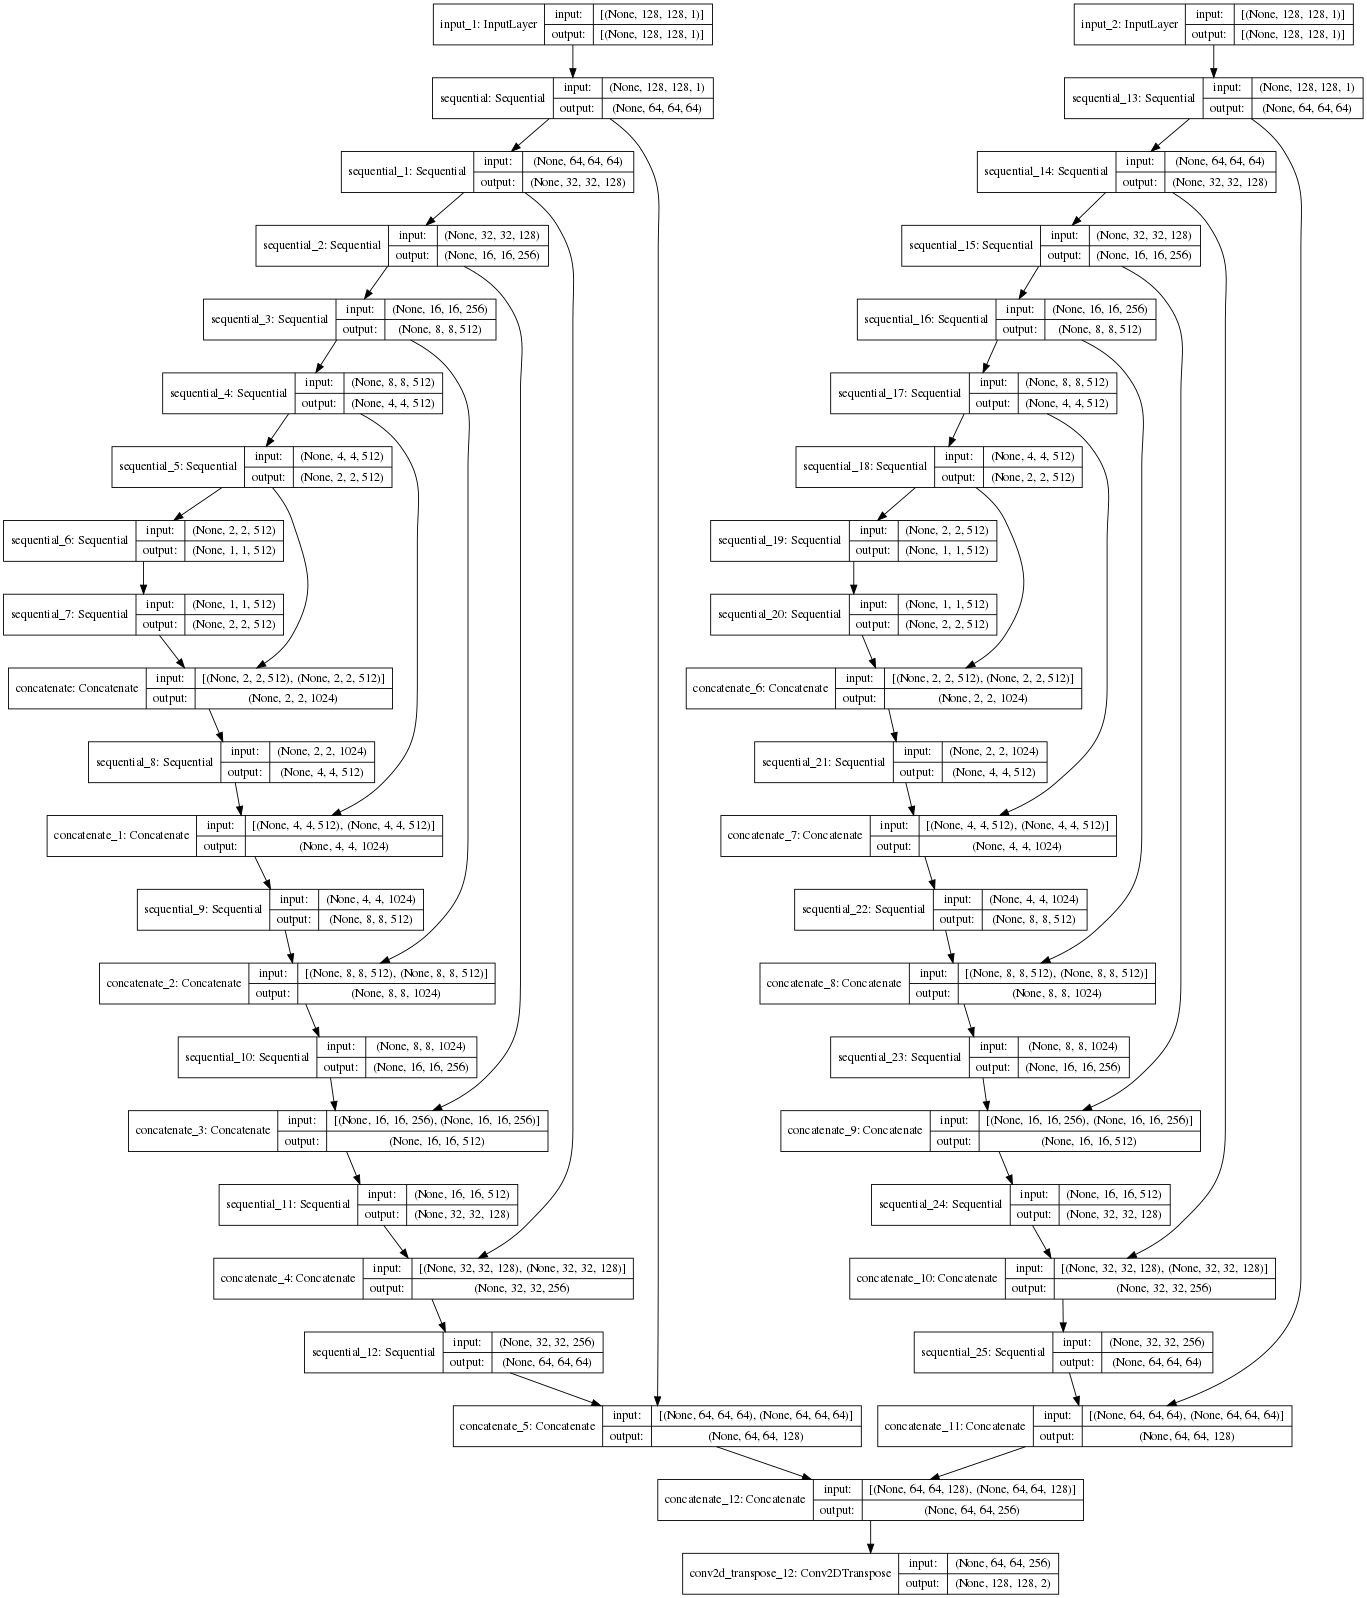
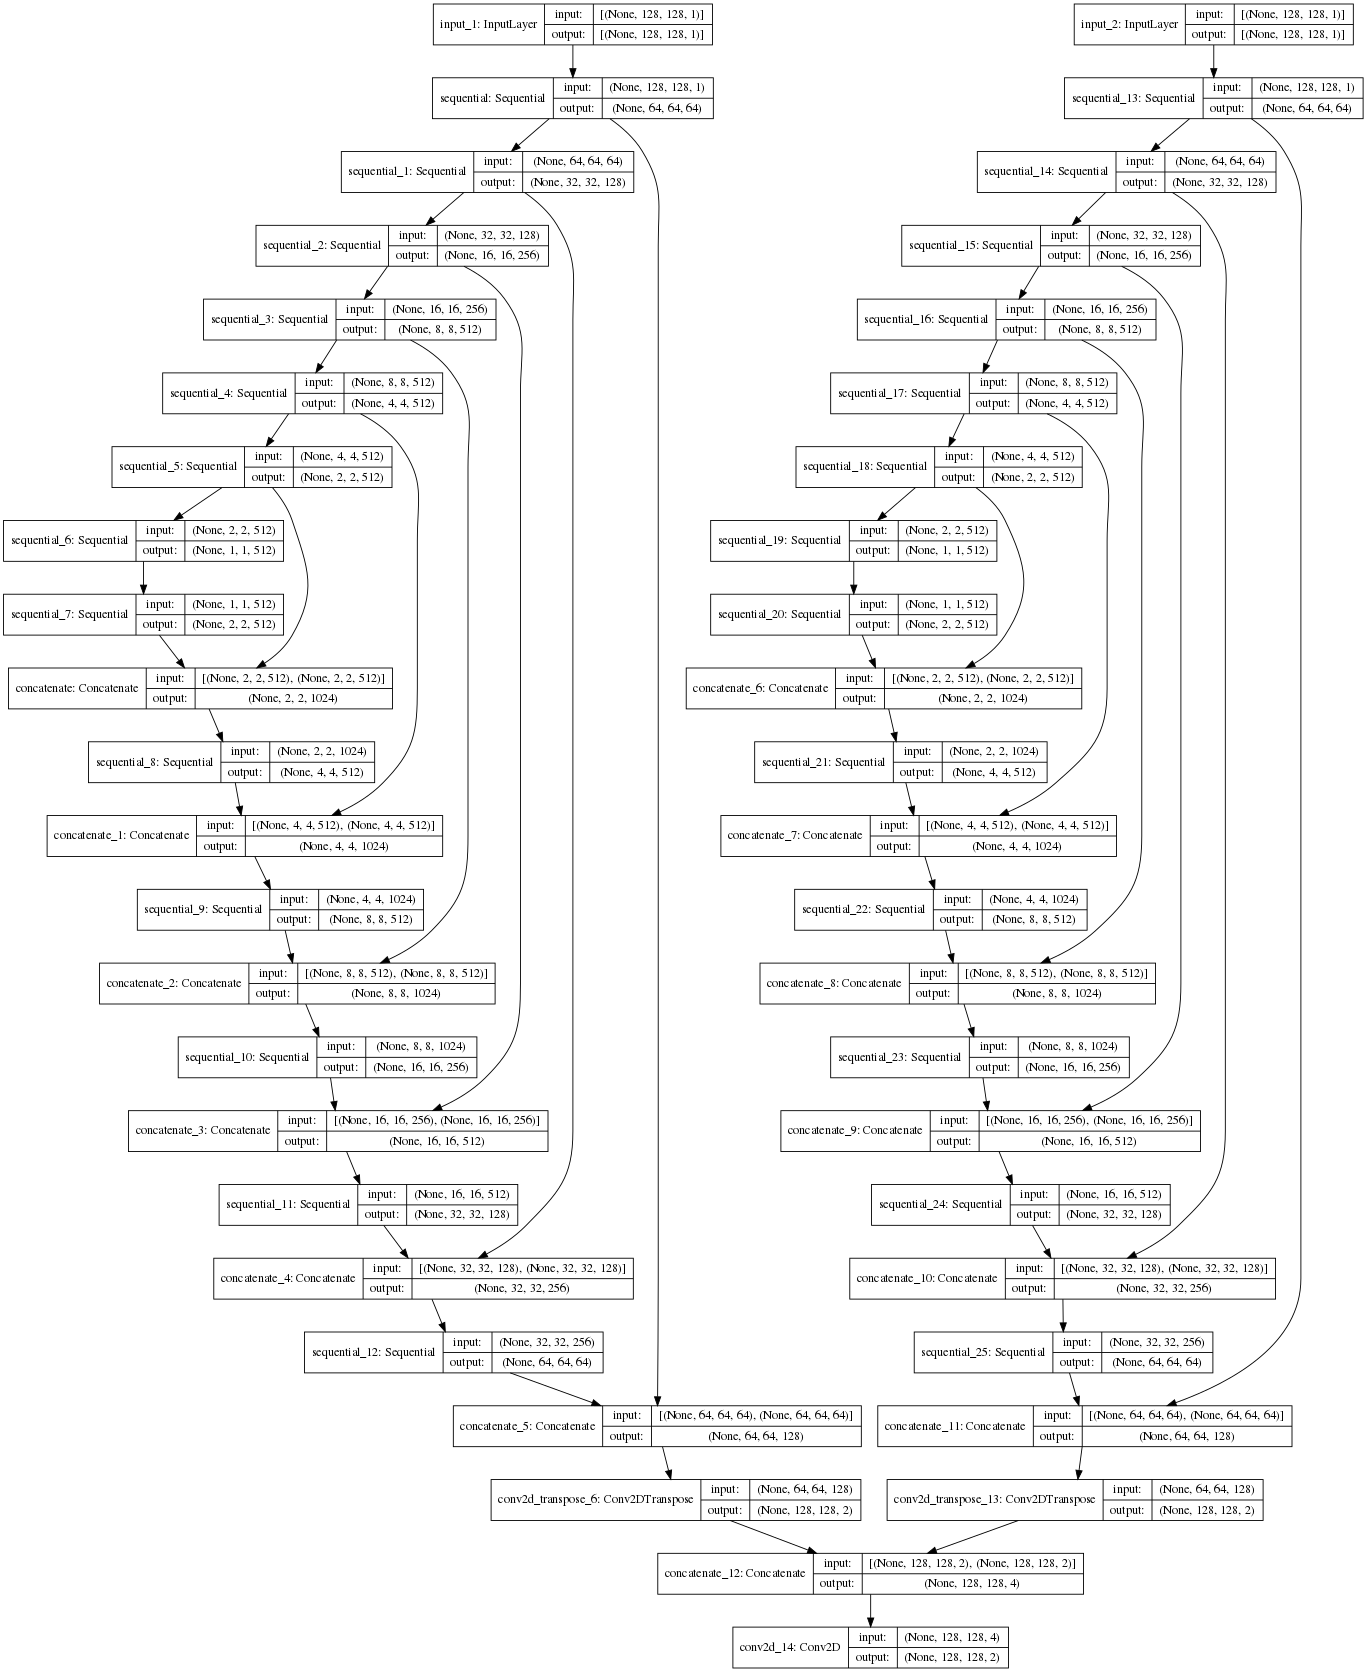
Slight changes to model, conv2d as the last layer and 4x4 kernel size

Changed region(s): [[0.0, 0.0, 1.0, 1.0]]

diff --git a/generator.py b/generator.py
@@ -69,10 +69,19 @@ def create_unet(inp):
         x = up(x)
         x = tf.keras.layers.Concatenate()([x, skip])
 
+    x = tf.keras.layers.Conv2DTranspose(2,
+                                         kernel_size=(4, 4),
+                                         strides=(2, 2),
+                                         padding="same",
+                                         use_bias=False,
+                                         activation="tanh")(x)
+
     return x
 
 
 def create_generator():
+    init = tf.random_normal_initializer(0., 0.02)
+
     inp_1 = tf.keras.layers.Input(shape=[HEIGHT, WIDTH, 1])
     inp_2 = tf.keras.layers.Input(shape=[HEIGHT, WIDTH, 1])
 
@@ -81,13 +90,15 @@ def create_generator():
 
     fuse = tf.keras.layers.Concatenate()([unet_1, unet_2])
 
-    output = tf.keras.layers.Conv2DTranspose(2,
-                                             kernel_size=(4, 4),
-                                             strides=(2, 2),
-                                             padding="same",
-                                             use_bias=False,
-                                             activation="tanh")(fuse)
+    output = tf.keras.layers.Conv2D(2,
+                                     kernel_size=(4, 4),
+                                     strides=(1, 1),
+                                     padding="same",
+                                     kernel_initializer=init,
+                                     use_bias=False,
+                                     activation="tanh")(fuse)
 
+    print(output.shape)
     model = tf.keras.Model(inputs=[inp_1, inp_2], outputs=output)
 
     # Uncomment to visualize the model

diff --git a/model_methods.py b/model_methods.py
@@ -14,11 +14,13 @@ def downsample(filters, kernel_size, strides, batchnorm=True):
         A sequential model which consists of a Convolutional layer, a Batch Normalization layer
         (if enabled), and a Leakyrelu layer.
     """
+    init = tf.random_normal_initializer(0., 0.02)
     layer = tf.keras.Sequential()
     layer.add(tf.keras.layers.Conv2D(filters,
                                      kernel_size=kernel_size,
                                      strides=strides,
                                      padding="same",
+                                     kernel_initializer=init,
                                      use_bias=False))
 
     if batchnorm:
@@ -42,11 +44,13 @@ def upsample(filters, kernel_size, strides, dropout=False):
         A sequential model which consists of a Convolutional Tranpose layer, a Batch Normalization layer,
         a Dropout layer (if enabled), and a Leakyrelu layer.
     """
+    init = tf.random_normal_initializer(0., 0.02)
     block = tf.keras.Sequential()
     block.add(tf.keras.layers.Conv2DTranspose(filters,
                                               kernel_size=kernel_size,
                                               strides=strides,
                                               padding="same",
+                                              kernel_initializer=init,
                                               use_bias=False))
 
     block.add(tf.keras.layers.BatchNormalization())

diff --git a/discriminator.py b/discriminator.py
@@ -9,17 +9,17 @@ def create_discriminator():
 
     input_layer = tf.keras.layers.concatenate([inp, tar])
 
-    c1 = downsample(64, (5, 5), (2, 2))(input_layer)
-    c2 = downsample(128, (5, 5), (2, 2))(c1)
-    c3 = downsample(256, (5, 5), (2, 2))(c2)
+    c1 = downsample(64, (4, 4), (2, 2))(input_layer)
+    c2 = downsample(128, (4, 4), (2, 2))(c1)
+    c3 = downsample(256, (4, 4), (2, 2))(c2)
 
     zero_pad_1 = tf.keras.layers.ZeroPadding2D()(c3)
-    c4 = downsample(512, (5, 5), (1, 1))(zero_pad_1)
+    c4 = downsample(512, (4, 4), (1, 1))(zero_pad_1)
 
     zero_pad_2 = tf.keras.layers.ZeroPadding2D()(c4)
 
     output = tf.keras.layers.Conv2D(1,
-                                    kernel_size=(5, 5),
+                                    kernel_size=(4, 4),
                                     strides=(1, 1),
                                     padding="same",
                                     activation="sigmoid",
